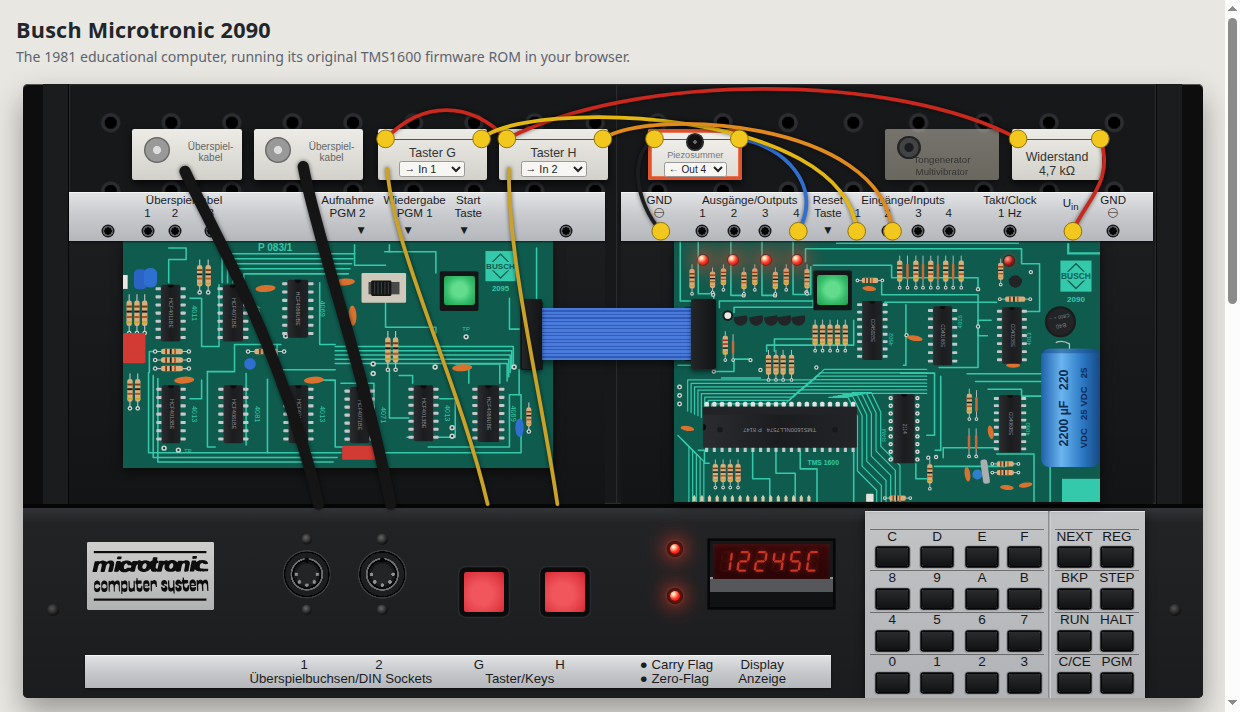
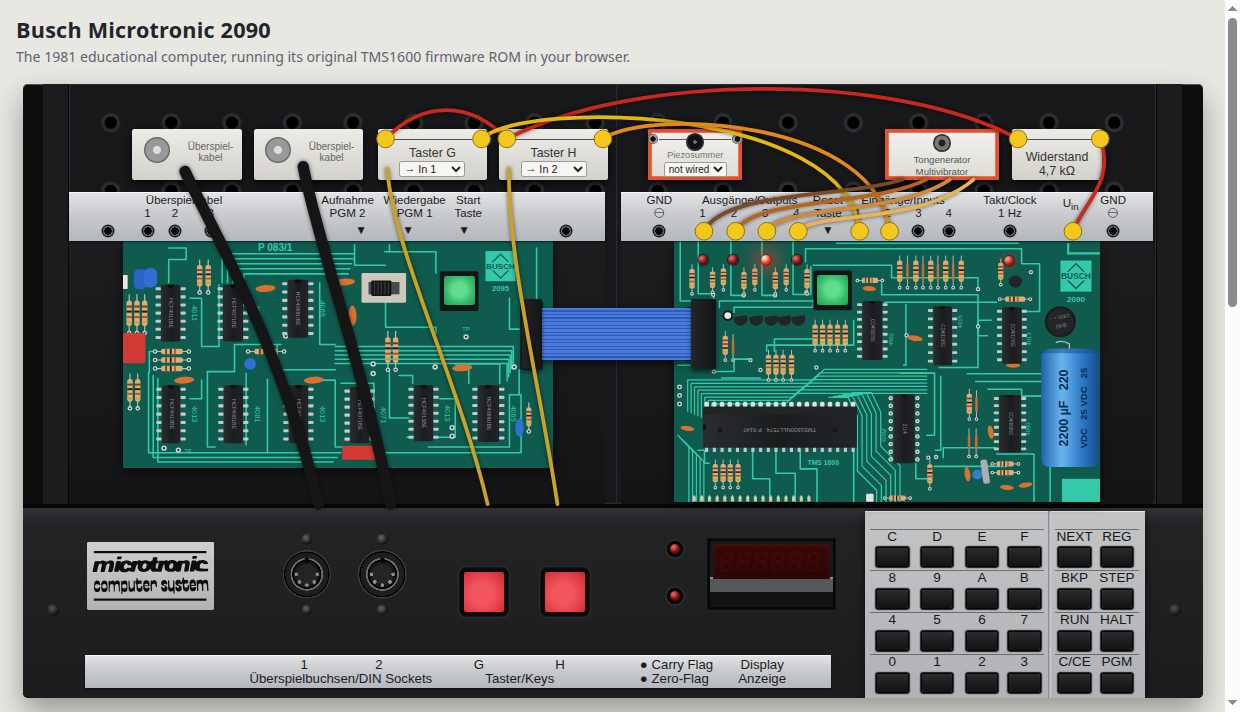
Link to the Kosmos CP1 emulator; screenshot with the tone circuit
Claude-Session: https://claude.ai/code/session_01RRZMkeXQShygyYhWuUdVNF

diff --git a/index.html b/index.html
@@ -4,7 +4,7 @@
 <meta charset="utf-8">
 <meta name="viewport" content="width=device-width, initial-scale=1">
 <title>Busch Microtronic 2090 Emulator</title>
-<link rel="stylesheet" href="css/microtronic.css?v=202610070804">
+<link rel="stylesheet" href="css/microtronic.css?v=202610070819">
 </head>
 <body>
 <header>
@@ -173,13 +173,13 @@
       Annotated firmware: <a href="https://github.com/lambdamikel/microtronic-firmware-annotated">microtronic-firmware-annotated</a>.</li>
   </ul>
   <p>Emulator: TMS1600 core and board model in plain JavaScript; nothing in the firmware is patched or intercepted.
-  Made with Claude Opus 5.5 (Claude Code), together with Michael Wessel.
+  Made with Claude Opus 5.5 (Claude Code), together with Michael Wessel. Sister project: the <a href="https://lambdamikel.github.io/kosmos-cp1-emulator/">Kosmos CP1 emulator</a>.
   Source: <a href="https://github.com/lambdamikel/microtronic-emulator">github.com/lambdamikel/microtronic-emulator</a> (GPL-3; the firmware ROM remains © Busch).</p>
 </footer>
 
-<script src="js/rom.js?v=202610070804"></script>
-<script src="js/programs.js?v=202610070804"></script>
-<script src="js/tms1600.js?v=202610070804"></script>
-<script src="js/ui.js?v=202610070804"></script>
+<script src="js/rom.js?v=202610070819"></script>
+<script src="js/programs.js?v=202610070819"></script>
+<script src="js/tms1600.js?v=202610070819"></script>
+<script src="js/ui.js?v=202610070819"></script>
 </body>
 </html>

diff --git a/README.md b/README.md
@@ -8,6 +8,8 @@ A JavaScript-only emulator of the 1981 Busch Microtronic 2090 that runs the
 **original TMS1600 firmware ROM**. Static files, no build step, no server code:
 open `index.html`, or serve the folder from GitHub Pages.
 
+Sister project: the [Kosmos CP1 emulator](https://github.com/lambdamikel/kosmos-cp1-emulator).
+
 ## What is emulated
 
 The emulation is at pin level; nothing in the firmware is patched or intercepted.
